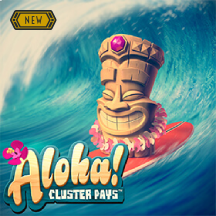
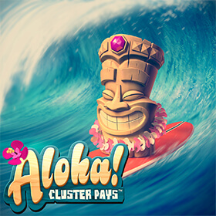
added dynamic card tags and refactor card component

diff --git a/src/components/Icon/Icon.module.scss b/src/components/Icon/Icon.module.scss
@@ -1,4 +1,22 @@
-.icon-all, .icon-top, .icon-new, .icon-search {
+.small {
+  height: 28px;
+  width: 28px;
+  background-size: 18px 18px;
+}
+
+.medium {
+  height: 35px;
+  width: 35px;
+  background-size: 24px 24px;
+}
+
+.large {
+  height: 40px;
+  width: 40px;
+  background-size: 30px 30px;
+}
+
+.icon-all, .icon-top, .icon-new, .icon-search, .icon-tag-new, .icon-tag-top {
   display: block;
 }
 
@@ -18,6 +36,34 @@
   background: url(/img/ico_new.svg) no-repeat;
 }
 
+.icon-tag-top {
+  background: url(/img/icon-tag-top.png) no-repeat;
+}
+
+.icon-tag-new {
+  background: url(/img/icon-tag-new.png) no-repeat;
+}
+
+.icon-tag-new, .icon-tag-top {
+  position: absolute;
+  top: 5px;
+  z-index: 0;
+}
+
+.icon-tag-new {
+  height: 20px;
+  width: 40px;
+  background-size: 40px 18px;
+  left: 8px;
+}
+
+.icon-tag-top {
+  height: 55px;
+  width: 55px;
+  background-size: 55px 55px;
+  right: 3px;
+}
+
 .icon-search {
   background: url(/img/ico_search.svg) no-repeat;
   position: absolute;
@@ -28,20 +74,3 @@
   z-index: 999;
 }
 
-.small {
-  height: 28px;
-  width: 28px;
-  background-size: 18px 18px;
-}
-
-.medium {
-  height: 35px;
-  width: 35px;
-  background-size: 24px 24px;
-}
-
-.large {
-  height: 40px;
-  width: 40px;
-  background-size: 30px 30px;
-}

diff --git a/src/components/CardType/CardType.jsx b/src/components/CardType/CardType.jsx
@@ -1,0 +1,44 @@
+import React from 'react';
+import PropTypes from 'prop-types';
+import Image from '../Image/Image';
+import Icon from '../Icon/Icon';
+import styles from './CardType.module.scss';
+
+const CardType = ({
+  cardTag, cardLink, cardTitle, cardName, cardImage, cardCopy
+}) => {
+
+  if (cardTag !== null) {
+    return (
+      <a className={`${styles.card}`} href={cardLink} title={cardTitle}>
+        <Image source={cardImage} size="fit" altText={cardName} />
+        <span className={`${styles['card-copy']}`}>{cardCopy}</span> 
+        <Icon iconName={cardTag} />
+      </a>
+    );
+  }
+  return (      
+    <a className={`${styles.card}`} href={cardLink} title={cardTitle}>
+      <Image source={cardImage} size="fit" altText={cardName} />
+      <span className={`${styles['card-copy']}`}>{cardCopy}</span>  
+    </a>
+  );
+};
+
+CardType.propTypes = {
+  cardLink: PropTypes.string.isRequired,
+  cardName: PropTypes.string.isRequired,
+  cardTitle: PropTypes.string.isRequired,
+  cardImage: PropTypes.string.isRequired,
+  cardCopy: PropTypes.string,
+  cardTag: PropTypes.string,
+};
+
+CardType.defaultProps = {
+  cardCopy: 'Play!',
+  cardTag: null,
+};
+
+export default CardType;
+
+

diff --git a/src/components/Card/Card.jsx b/src/components/Card/Card.jsx
@@ -1,28 +1,22 @@
 import React from 'react';
-import PropTypes from 'prop-types';
-import Image from '../Image/Image';
-import styles from './Card.module.scss';
+import CardType from '../CardType/CardType';
 
 const Card = ({
-  cardLink, cardTitle, cardName, cardImage, cardCopy
+  cardTag, ...rest
 }) => {
-  return (
-    <a className={`${styles.card}`} href={cardLink} title={cardTitle}>
-      <Image source={cardImage} size="fit" altText={cardName} />
-      <span className={`${styles['card-copy']}`}>{cardCopy}</span>
-    </a>
+
+  if (cardTag === 'new') {
+    return (  
+    <CardType cardTag="icon-tag-new"  {...rest} />
+    )
+  } else if (cardTag === 'top') {
+    return (
+      <CardType cardTag="icon-tag-top"  {...rest} />
+    );    
+  }
+  return (      
+    <CardType {...rest} />
   );
-};
-
-Card.propTypes = {
-  cardLink: PropTypes.string.isRequired,
-  cardName: PropTypes.string.isRequired,
-  cardImage: PropTypes.string.isRequired,
-  cardCopy: PropTypes.string,
-};
-
-Card.defaultProps = {
-  cardCopy: 'Play!',
 };
 
 export default Card;

diff --git a/src/App.js b/src/App.js
@@ -71,7 +71,7 @@ function App() {
       <div className={`${styles['item-container']}`}>
         {data.map((data, i) => {
           return <div key={i} className={`${styles['item-box']}`}>
-            <Card cardLink={data.link} cardTitle={data.linkTitle} cardName={data.name} cardImage={data.image} />
+            <Card cardTag={data.tag} cardLink={data.link} cardTitle={data.linkTitle} cardName={data.name} cardImage={data.image} />
           </div>
         })}
         {data.length === 0 && <span className={`${styles['results-message']}`}>No games found to display!</span>}

diff --git a/src/components/CardType/CardType.module.scss b/src/components/CardType/CardType.module.scss
@@ -14,6 +14,7 @@
     transition: visibility 0s, opacity 0.5s linear;
     font-size: 14px;
     color: #ffffff;
+    z-index: 11;
   }
 
   &::before {
@@ -30,6 +31,7 @@
     transform-origin: bottom center;
     transform: scale3d(1, 0, 1);
     transition: .5s;
+    z-index: 10;
   }
   
   &:hover::before {

diff --git a/src/components/FilterTab/FilterTab.module.scss b/src/components/FilterTab/FilterTab.module.scss
@@ -1,6 +1,6 @@
 .filter-tab-box {
     text-align: center;
-    padding: 0px 15px;
+    padding: 0px 15px 10px;
     cursor: pointer;
 
     &.selected {
